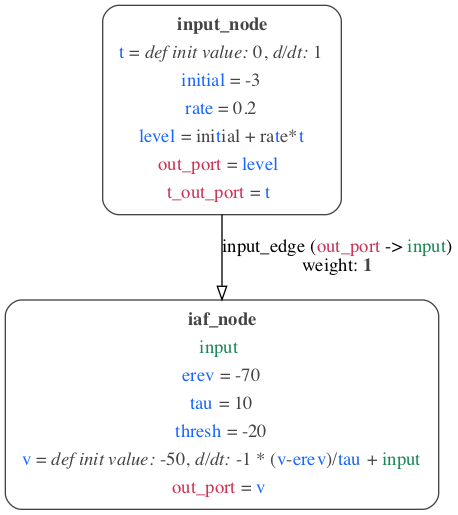
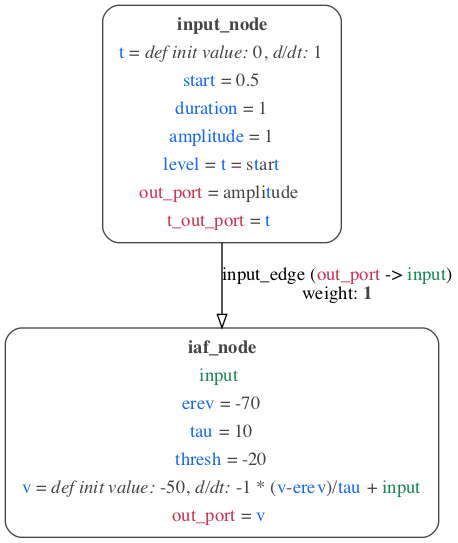
More tests

Changed region(s): [[0.0, 0.0, 0.9782, 0.9942], [0.8559, 0.466, 1.0, 0.5282]]

diff --git a/examples/MDF/RNN/generate_iaf.py b/examples/MDF/RNN/generate_iaf.py
@@ -17,16 +17,21 @@ def main():
     t_param = Parameter(id="t", default_initial_value=0, time_derivative="1")
     input_node.parameters.append(t_param)
 
-    p0 = Parameter(id="initial", value=-3)
+    p0 = Parameter(id="start", value=20)
     input_node.parameters.append(p0)
-    p1 = Parameter(id="rate", value=0.2)
+
+    p1 = Parameter(id="duration", value=60)
     input_node.parameters.append(p1)
 
-    p2 = Parameter(id="level", value="initial + rate*t")
+    p2 = Parameter(id="amplitude", value=10)
     input_node.parameters.append(p2)
 
-    op1 = OutputPort(id="out_port", value=p2.id)
+    p3 = Parameter(id="level", value="amplitude * int(t > start)")
+    input_node.parameters.append(p3)
+
+    op1 = OutputPort(id="out_port", value=p3.id)
     input_node.output_ports.append(op1)
+
     op2 = OutputPort(id="t_out_port", value=t_param.id)
     input_node.output_ports.append(op2)
 
